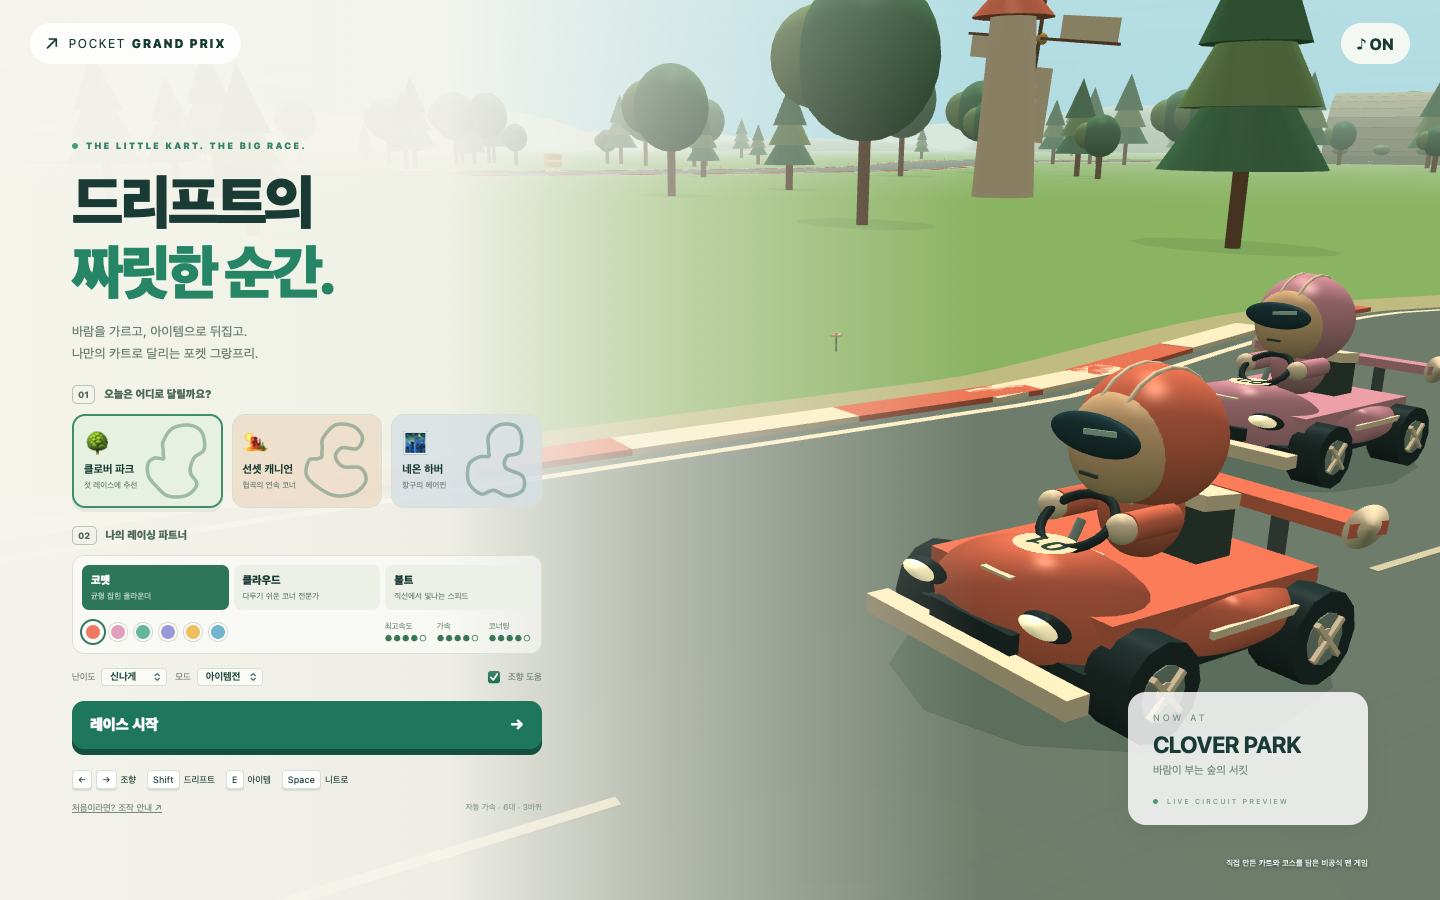
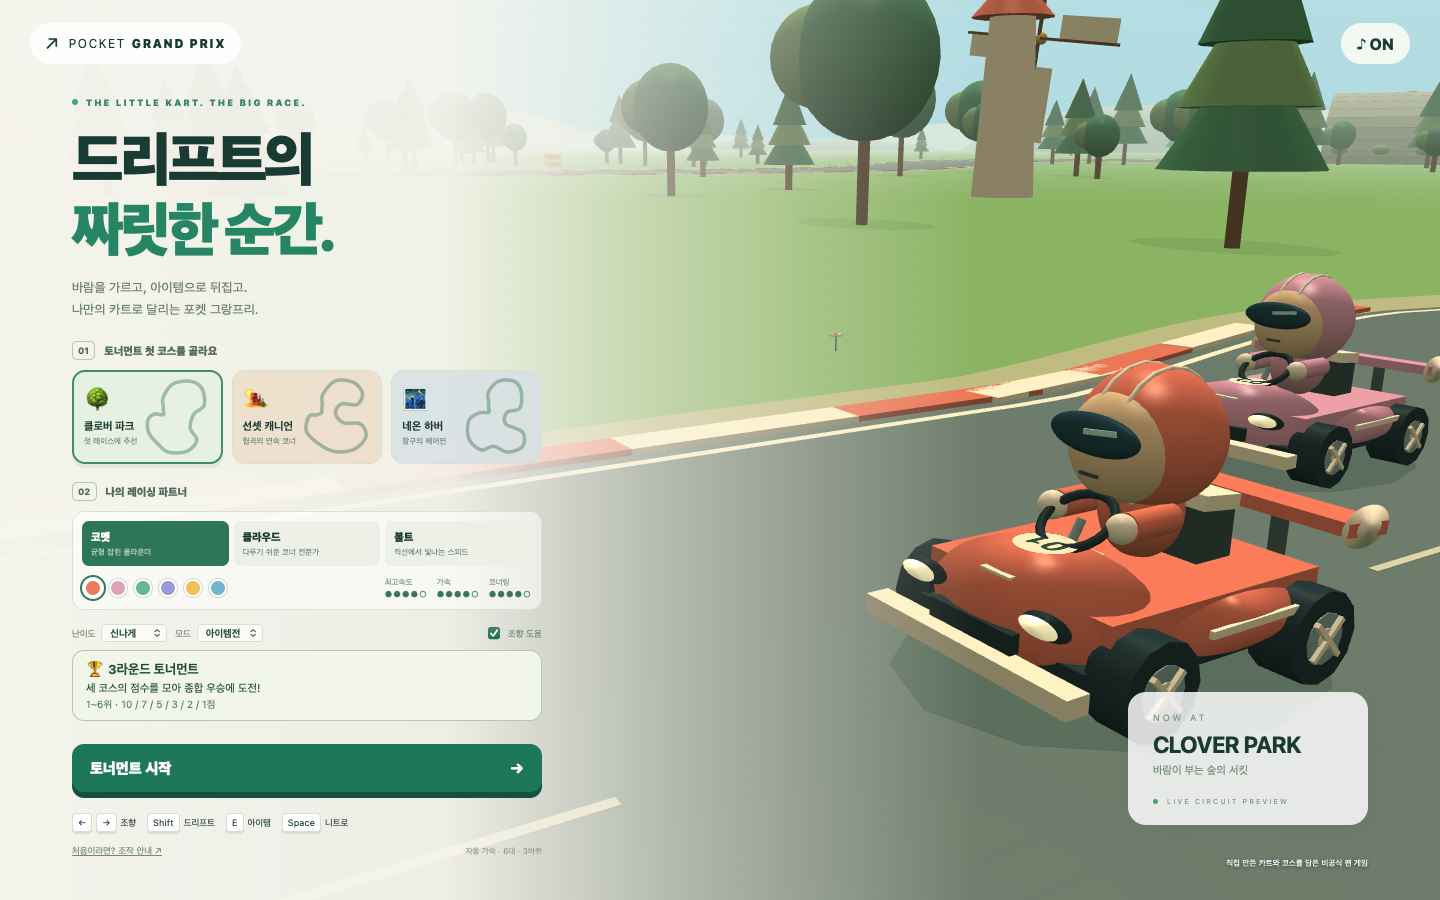
feat: add three-round tournaments with cumulative standings

diff --git a/main.js b/main.js
@@ -1,3 +1,4 @@
+import { createTournament, recordRound, standings, advanceRound, POINTS } from "./tournament.mjs";
 import { Engine, Vector3 } from "./graphics.js";
 import {
   COURSES,
@@ -62,6 +63,7 @@ let engine,
   world,
   fx,
   G = null,
+  cup = null,
   last = performance.now(),
   elapsed = 0,
   accum = 0,
@@ -264,6 +266,25 @@ function makeUI() {
 }
 function start() {
   if (changing) return;
+  cup = createTournament(settings.track, createRace(settings).racers);
+  beginRound();
+}
+function nextRound() {
+  if (!cup || G?.mode !== "finished" || !shownResult) return;
+  if (advanceRound(cup)) beginRound();
+  else {
+    cup = createTournament(cup.tracks[0], G.racers);
+    beginRound();
+  }
+}
+function beginRound() {
+  if (changing || !cup) return;
+  const track = cup.tracks[cup.round];
+  if (settings.track !== track) {
+    G = null;
+    settings.track = track;
+    rebuild();
+  }
   audio.start();
   fx.clear();
   G = createRace(settings);
@@ -295,6 +316,14 @@ function start() {
 function menu() {
   clearInput();
   G = null;
+  if (cup) {
+    const firstTrack = cup.tracks[0];
+    cup = null;
+    if (settings.track !== firstTrack) {
+      settings.track = firstTrack;
+      rebuild();
+    }
+  }
   fx.clear();
   $("menu").hidden = false;
   for (const id of [
@@ -343,8 +372,6 @@ function results() {
   $("touch").hidden = true;
   $("pause").hidden = true;
   $("again").focus();
-  $("resulttitle").textContent =
-    G.rank === 1 ? "챔피언의 탄생!" : `${G.rank}등! 끝까지 멋진 질주!`;
   $("resulttime").textContent = G.course.name + " · " + format(finishTime);
   $("resultstats").replaceChildren(
     ...[
@@ -360,6 +387,30 @@ function results() {
     }),
   );
   const sorted = [...G.racers].sort((a, b) => rankOf(G, a) - rankOf(G, b));
+  recordRound(cup, sorted.map((r) => r.id));
+  const overall = standings(cup),
+    final = cup.rounds.length === cup.tracks.length,
+    playerPlace = overall.findIndex((r) => r.id === 0) + 1;
+  $("resulttitle").textContent = final
+    ? (playerPlace === 1 ? "토너먼트 챔피언!" : `토너먼트 최종 ${playerPlace}위!`)
+    : `${cup.round + 1}라운드 · ${G.rank}위 완주!`;
+  $("cupeyebrow").textContent = final ? "GRAND PRIX · FINAL RESULTS" : `GRAND PRIX · ROUND ${cup.round + 1} / 3`;
+  $("cuptitle").textContent = final ? "🏆 최종 종합 순위" : "🏁 토너먼트 누적 순위";
+  $("cupstandings").replaceChildren(...overall.map((r, index) => {
+    const row = document.createElement("div");
+    row.className = r.id === 0 ? "me" : "";
+    const name = document.createElement("span"), scores = document.createElement("small"), total = document.createElement("b");
+    name.textContent = `${index + 1}  ${r.name}${r.id === 0 ? " ★" : ""}`;
+    scores.textContent = r.places.map((place) => `+${POINTS[place - 1]}`).join(" / ");
+    total.textContent = `${r.points}점`;
+    row.append(name, scores, total);
+    return row;
+  }));
+  $("cupnext").textContent = final
+    ? `우승 · ${overall[0].name} · ${overall[0].points}점`
+    : `다음 코스 · ${COURSES[cup.tracks[cup.round + 1]].name}`;
+  $("again").textContent = final ? "새 토너먼트 시작 →" : `다음 라운드 (${cup.round + 2}/3) →`;
+  $("roundroute").textContent = cup.tracks.map((track, i) => `${i < cup.rounds.length ? "✓ " : ""}${COURSES[track].name}`).join(" → ");
   const laps = G.racers[0].lapTimes,
     bestLap = Math.min(...laps);
   $("laptimes").replaceChildren(
@@ -458,6 +509,7 @@ function updateHUD() {
   $("rank").innerHTML = G.rank + "<span>/ 6</span>";
   $("lap").innerHTML = lap + " <i>/ " + G.course.laps + "</i>";
   $("time").textContent = format(p.finished ? p.finishTime : G.time);
+  $("cupround").textContent = `ROUND ${cup ? cup.round + 1 : 1} / 3`;
   $("speed").textContent = Math.round(p.speed * 3.6);
   $("speedarc").setAttribute(
     "stroke-dasharray",
@@ -704,8 +756,8 @@ function bindControls() {
       b.addEventListener(type, () => (input[b.dataset.control] = false));
   }
   $("start").onclick = start;
-  $("again").onclick = start;
-  $("restart").onclick = start;
+  $("again").onclick = nextRound;
+  $("restart").onclick = beginRound;
   $("back").onclick = menu;
   $("quit").onclick = menu;
   $("pause").onclick = pause;
@@ -838,6 +890,7 @@ try {
     JSON.stringify(
       G
         ? {
+            tournament: cup,
             mode: G.mode,
             track: G.course.id,
             rank: G.rank,
@@ -876,6 +929,7 @@ try {
           },
     );
   window.__kart = {
+    get tournament() { return cup; },
     get audioState() {
       return {
         voices: audio.voices.size,

diff --git a/index.html b/index.html
@@ -46,6 +46,7 @@
         <div id="leaderboard"></div>
       </div>
       <div class="raceinfo">
+        <span id="cupround" class="cup-round">ROUND 1 / 3</span>
         <div>
           <small>LAP</small><b id="lap">1 <i>/ 3</i></b>
         </div>
@@ -112,7 +113,7 @@
           바람을 가르고, 아이템으로 뒤집고.<br />나만의 카트로 달리는 포켓
           그랑프리.
         </p>
-        <div class="choose-label"><span>01</span> 오늘은 어디로 달릴까요?</div>
+        <div class="choose-label"><span>01</span> 토너먼트 첫 코스를 골라요</div>
         <div id="tracks" class="tracks"></div>
         <div class="choose-label garage-label">
           <span>02</span> 나의 레이싱 파트너
@@ -140,7 +141,8 @@
             ><input id="assist" type="checkbox" checked /> 조향 도움</label
           >
         </div>
-        <button id="start" class="start">레이스 시작 <span>→</span></button>
+        <div class="cup-intro"><b>🏆 3라운드 토너먼트</b><span>세 코스의 점수를 모아 종합 우승에 도전!</span><small>1~6위 · 10 / 7 / 5 / 3 / 2 / 1점</small></div>
+        <button id="start" class="start">토너먼트 시작 <span>→</span></button>
         <div class="controls">
           <span><kbd>←</kbd><kbd>→</kbd> 조향</span
           ><span><kbd>Shift</kbd> 드리프트</span><span><kbd>E</kbd> 아이템</span
@@ -221,7 +223,7 @@
         <p>나의 카트도, 레이스도 여기서 기다려요.</p>
         <button id="resume" class="start">계속 달리기 →</button
         ><button id="recover" class="secondary">트랙으로 복귀</button
-        ><button id="restart" class="secondary">처음부터 다시</button
+        ><button id="restart" class="secondary">이번 라운드 다시</button
         ><button id="quit" class="secondary">코스 선택으로</button>
       </section>
     </div>
@@ -234,16 +236,25 @@
       hidden
     >
       <section class="panel result-panel">
-        <div class="eyebrow">THE CHECKERED FLAG IS YOURS</div>
+        <div class="eyebrow" id="cupeyebrow">GRAND PRIX</div>
         <div class="trophy">🏆</div>
         <h2 id="resulttitle">멋진 레이스!</h2>
         <p id="resulttime"></p>
+        <section class="cup-board" aria-label="토너먼트 종합 순위">
+          <h3 id="cuptitle">토너먼트 누적 순위</h3>
+          <div id="cupstandings"></div>
+          <p id="cupnext"></p>
+          <small id="roundroute"></small>
+        </section>
+        <details class="round-detail"><summary>이번 라운드 기록 · 점수 규칙</summary>
+          <p>내가 결승선을 통과한 순간의 순위로 점수를 받아요. 동점은 높은 순위 횟수, 마지막 라운드 순위 순으로 정해요.</p>
         <div class="result-stats" id="resultstats"></div>
         <div class="lap-times" id="laptimes" aria-label="바퀴별 기록"></div>
-        <div id="standings"></div>
+          <div id="standings"></div>
+        </details>
         <p id="best"></p>
         <button id="again" class="start">한 번 더 달리기 →</button
-        ><button id="back" class="secondary">다른 코스 선택</button>
+        ><button id="back" class="secondary">대회 나가기 · 로비</button>
       </section>
     </div>
     <div id="touch" hidden>

diff --git a/style.css b/style.css
@@ -2106,3 +2106,20 @@ h1 {
     white-space: nowrap;
   }
 }
+
+/* Grand Prix tournament */
+.cup-intro { display:grid; gap:4px; padding:10px 13px; margin:8px 0; border:1px solid #b4c9a6; border-radius:12px; background:#f1f6e8; color:#214d37; }
+.cup-intro b {font-size:13px} .cup-intro span {font-size:11px} .cup-intro small {font-size:10px;opacity:.75}
+.raceinfo { position:relative; }
+.cup-round { position:absolute; top:-24px; left:0; width:100%; text-align:center; font-size:10px; letter-spacing:2px; font-weight:800; color:#fff6b7; text-shadow:0 2px 4px #19322b; }
+.cup-board {text-align:left; border:1px solid #cbd9b9; border-radius:14px; padding:12px; background:#edf3e4; margin:12px 0;}
+.cup-board h3 {font-size:14px; margin:0 0 9px; color:#24563c;}
+#cupstandings > div {display:grid; grid-template-columns:minmax(0,1fr) auto 42px; align-items:center; gap:8px; padding:7px 5px; font-size:12px; border-bottom:1px solid #dbe4d1;}
+#cupstandings .me {background:#d5e6bf; border-radius:6px; font-weight:800; color:#214f36;}
+#cupstandings small {font-size:10px; color:#617451;} #cupstandings b {text-align:right;}
+#cupnext {font-size:12px; font-weight:800; margin:12px 0 5px; color:#326541;}
+#roundroute {display:block; font-size:9px; line-height:1.7; color:#718266;}
+.round-detail {text-align:left; font-size:11px; margin:12px 0;}
+.round-detail summary {cursor:pointer; font-weight:700; color:#396247; padding:6px 0;}
+.round-detail p {font-size:10px; line-height:1.6; color:#718266;}
+@media(max-height:750px) { .result-panel {padding:22px;} .result-panel .trophy {font-size:28px; margin:0;} .result-stats {margin:8px 0; padding:8px 0;} }

diff --git a/VALIDATION.md b/VALIDATION.md
@@ -18,3 +18,12 @@
 - 공개 배포 URL에서도 Chromium/WebKit 전체 주행·메뉴·모바일 검사 통과. 배포 후 실제 시간 37.9분·19경기 반복 검사 오류0. seonn.dev의 PC/모바일 게임 페이지, 플레이 링크와 스크린샷3장 확인.
 
 브라우저의 실제 조작/렌더 검증과 빠른 물리 시뮬레이션은 별도 검사입니다. 장시간 검사는 requestAnimationFrame과 실제 시간으로 실행하며, 완료된 검사 결과만 통과로 기록합니다.
+
+
+## v0.3.0 · 3라운드 토너먼트 (2026-10-22 KST)
+
+- 코어/토너먼트 단위 검사 27개 통과. 코스 순환, 중복 점수 방지, 동점 처리, 잘못된 순위 거부 확인.
+- Chromium/WebKit에서 선셋 캐니언 → 네온 하버 → 클로버 파크를 실제 물리 조향으로 모두 완주. 누적 총점 매 라운드 28점, 최종 84점 확인.
+- 2라운드 재시작 시 앞 라운드 점수 보존, 최종 종합 우승자, 새 대회 점수 초기화, 로비 복귀, 모바일 화면 가로 넘침 없음, 실행 오류0 확인.
+- PC1440/휴대폰390의 실제 로비/종합 순위 화면을 캡처하고 직접 검토.
+- 이 변경의 장시간 연속 검사는 새로 실행하지 않았으며, 위 v0.2 장시간 기록은 이전 판의 검증이다.

diff --git a/README.md b/README.md
@@ -1,3 +1,7 @@
+# 3라운드 토너먼트 · v0.3.0
+
+선택한 코스부터 세 코스를 한 번씩 달립니다. 라운드별 1~6위에게 10/7/5/3/2/1점을 주며, 합계 점수로 우승자를 정합니다. 동점은 높은 순위 횟수, 마지막 라운드 순위 순으로 결정합니다. 플레이어가 완주한 순간의 순위를 사용합니다. 일시정지에서 이번 라운드를 다시 시작해도 앞 라운드 점수는 유지됩니다. 로비로 나가거나 새 토너먼트를 시작하면 대회 점수는 초기화됩니다.
+
 # 카트라이더 · 포켓 그랑프리
 
 직접 만든 카트와 코스로 즐기는 3D 카트 레이싱 팬 게임입니다. Babylon.js로 그린 숲, 협곡, 야간 항구를 달리며 AI 카트 다섯 대와 세 바퀴를 겨룹니다. 원작의 이미지, 모델, 음악 파일을 사용하지 않습니다.
